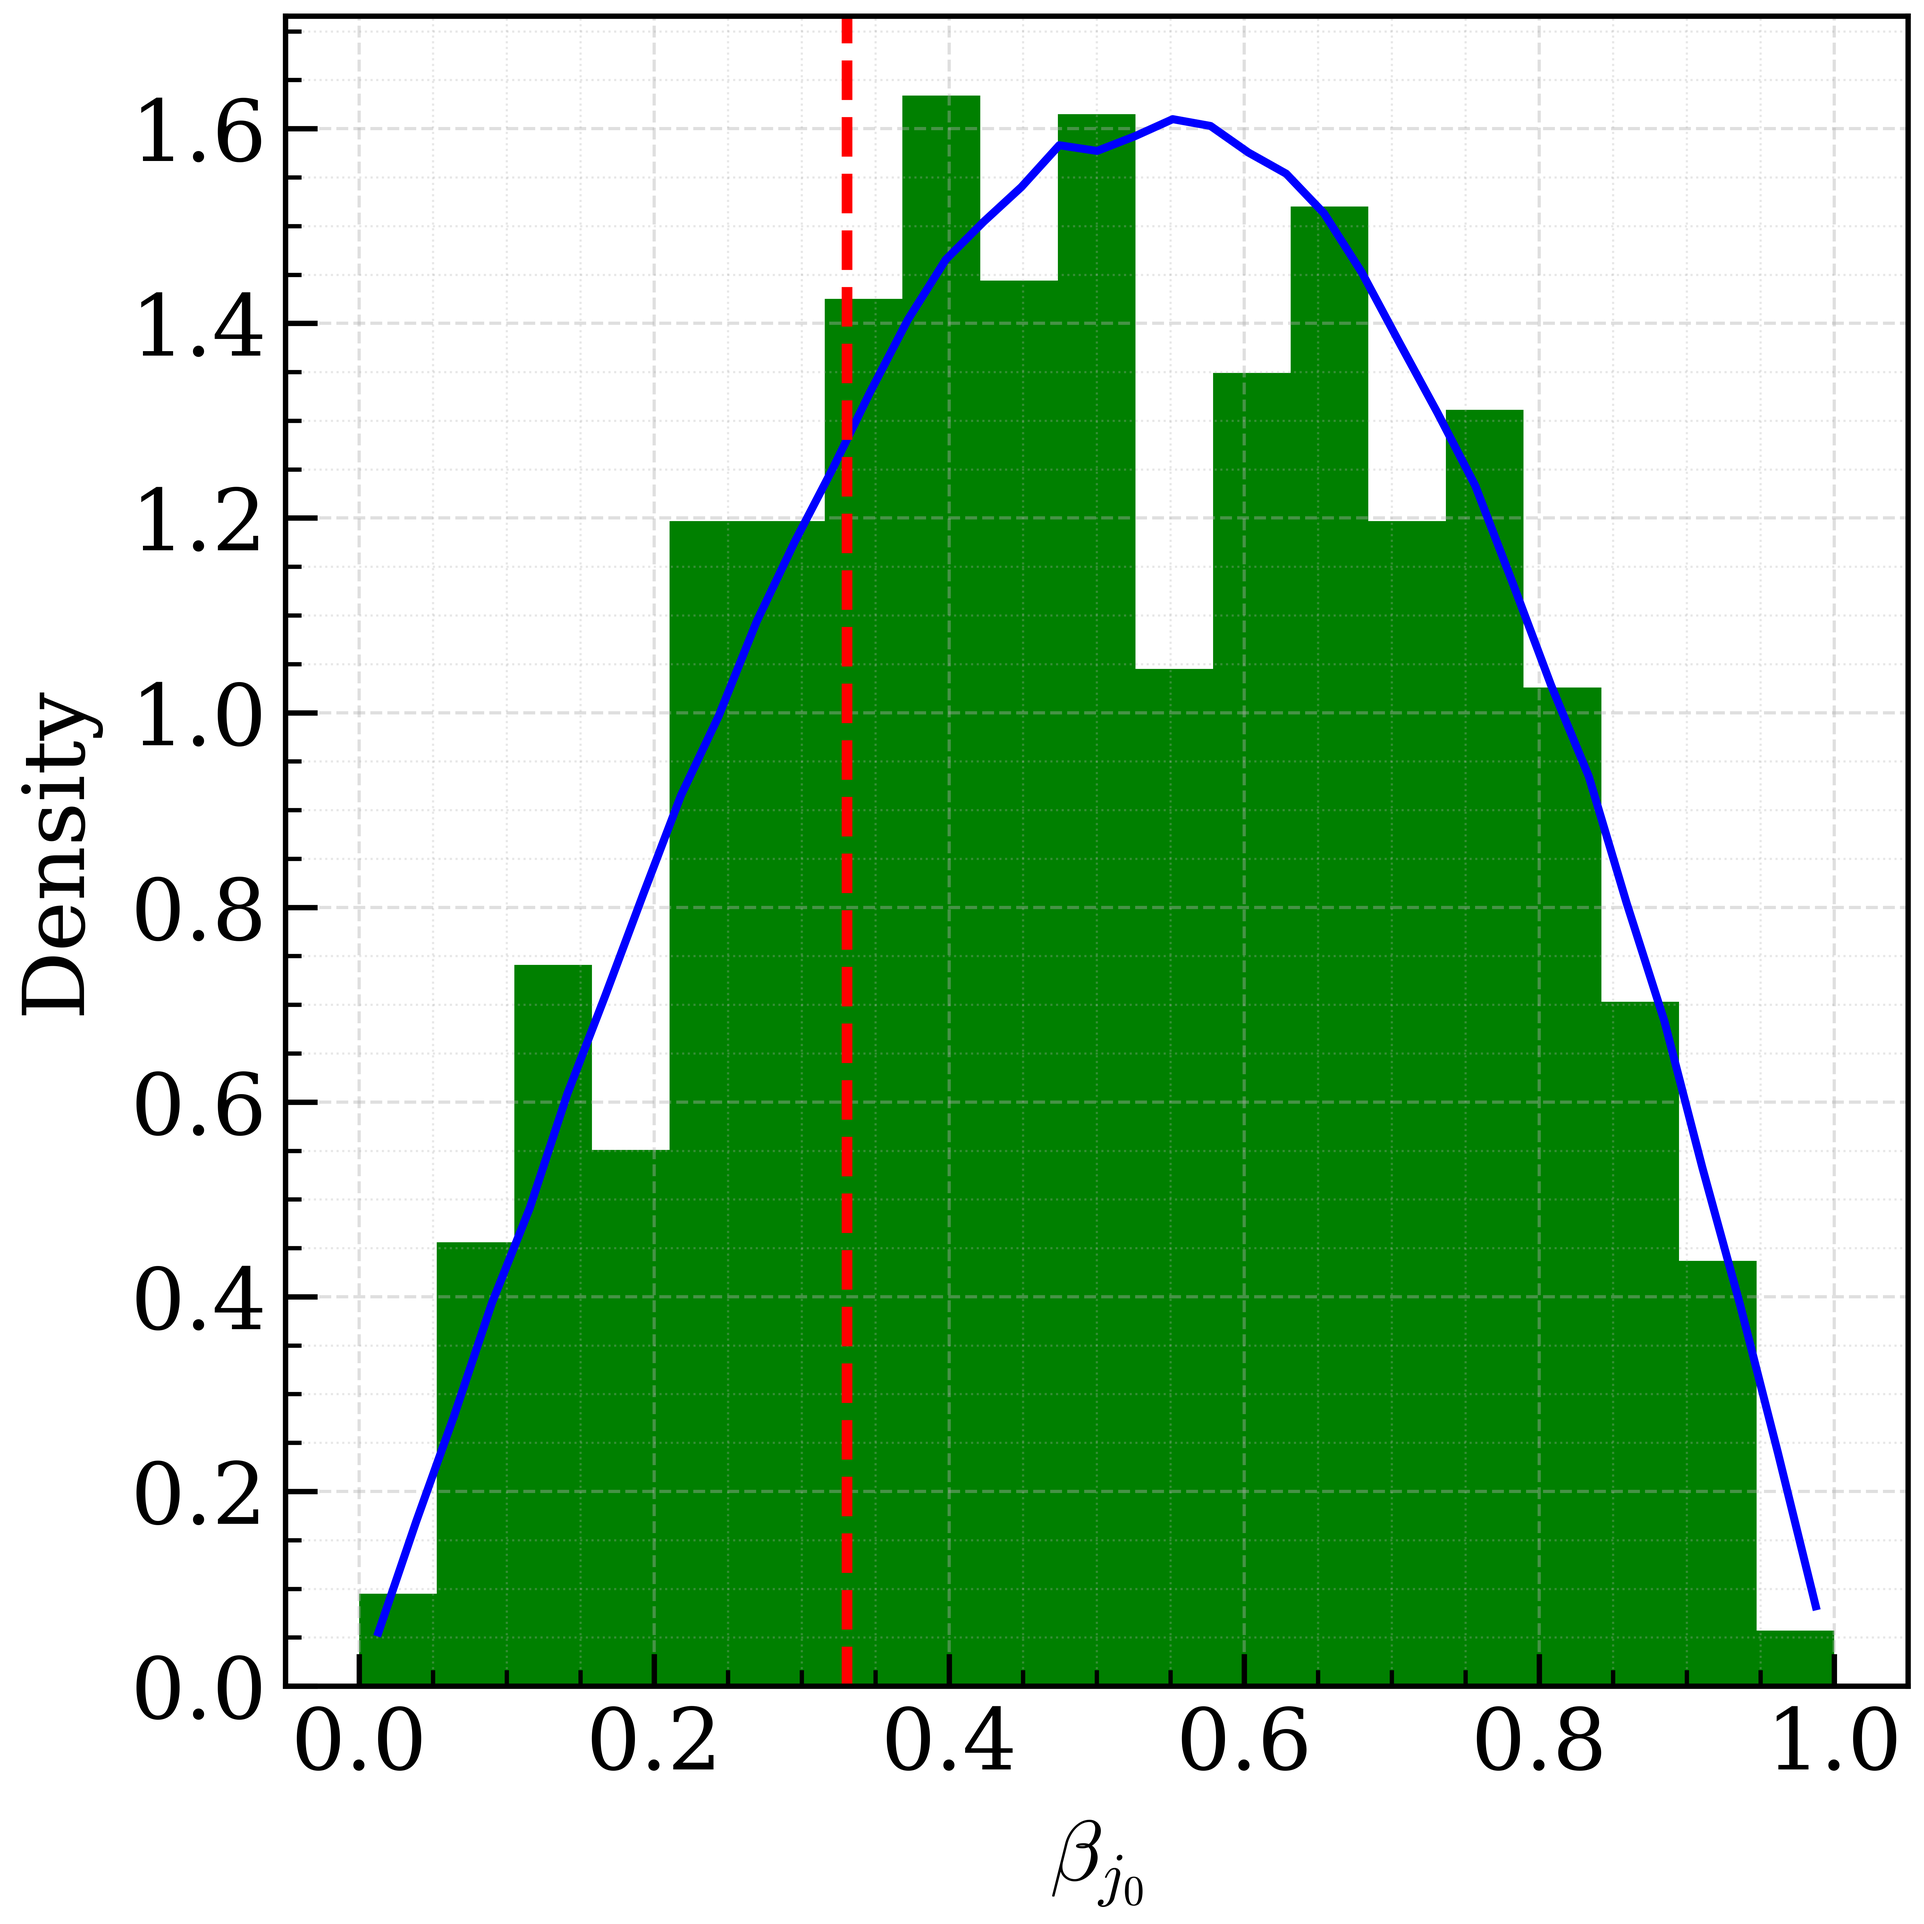
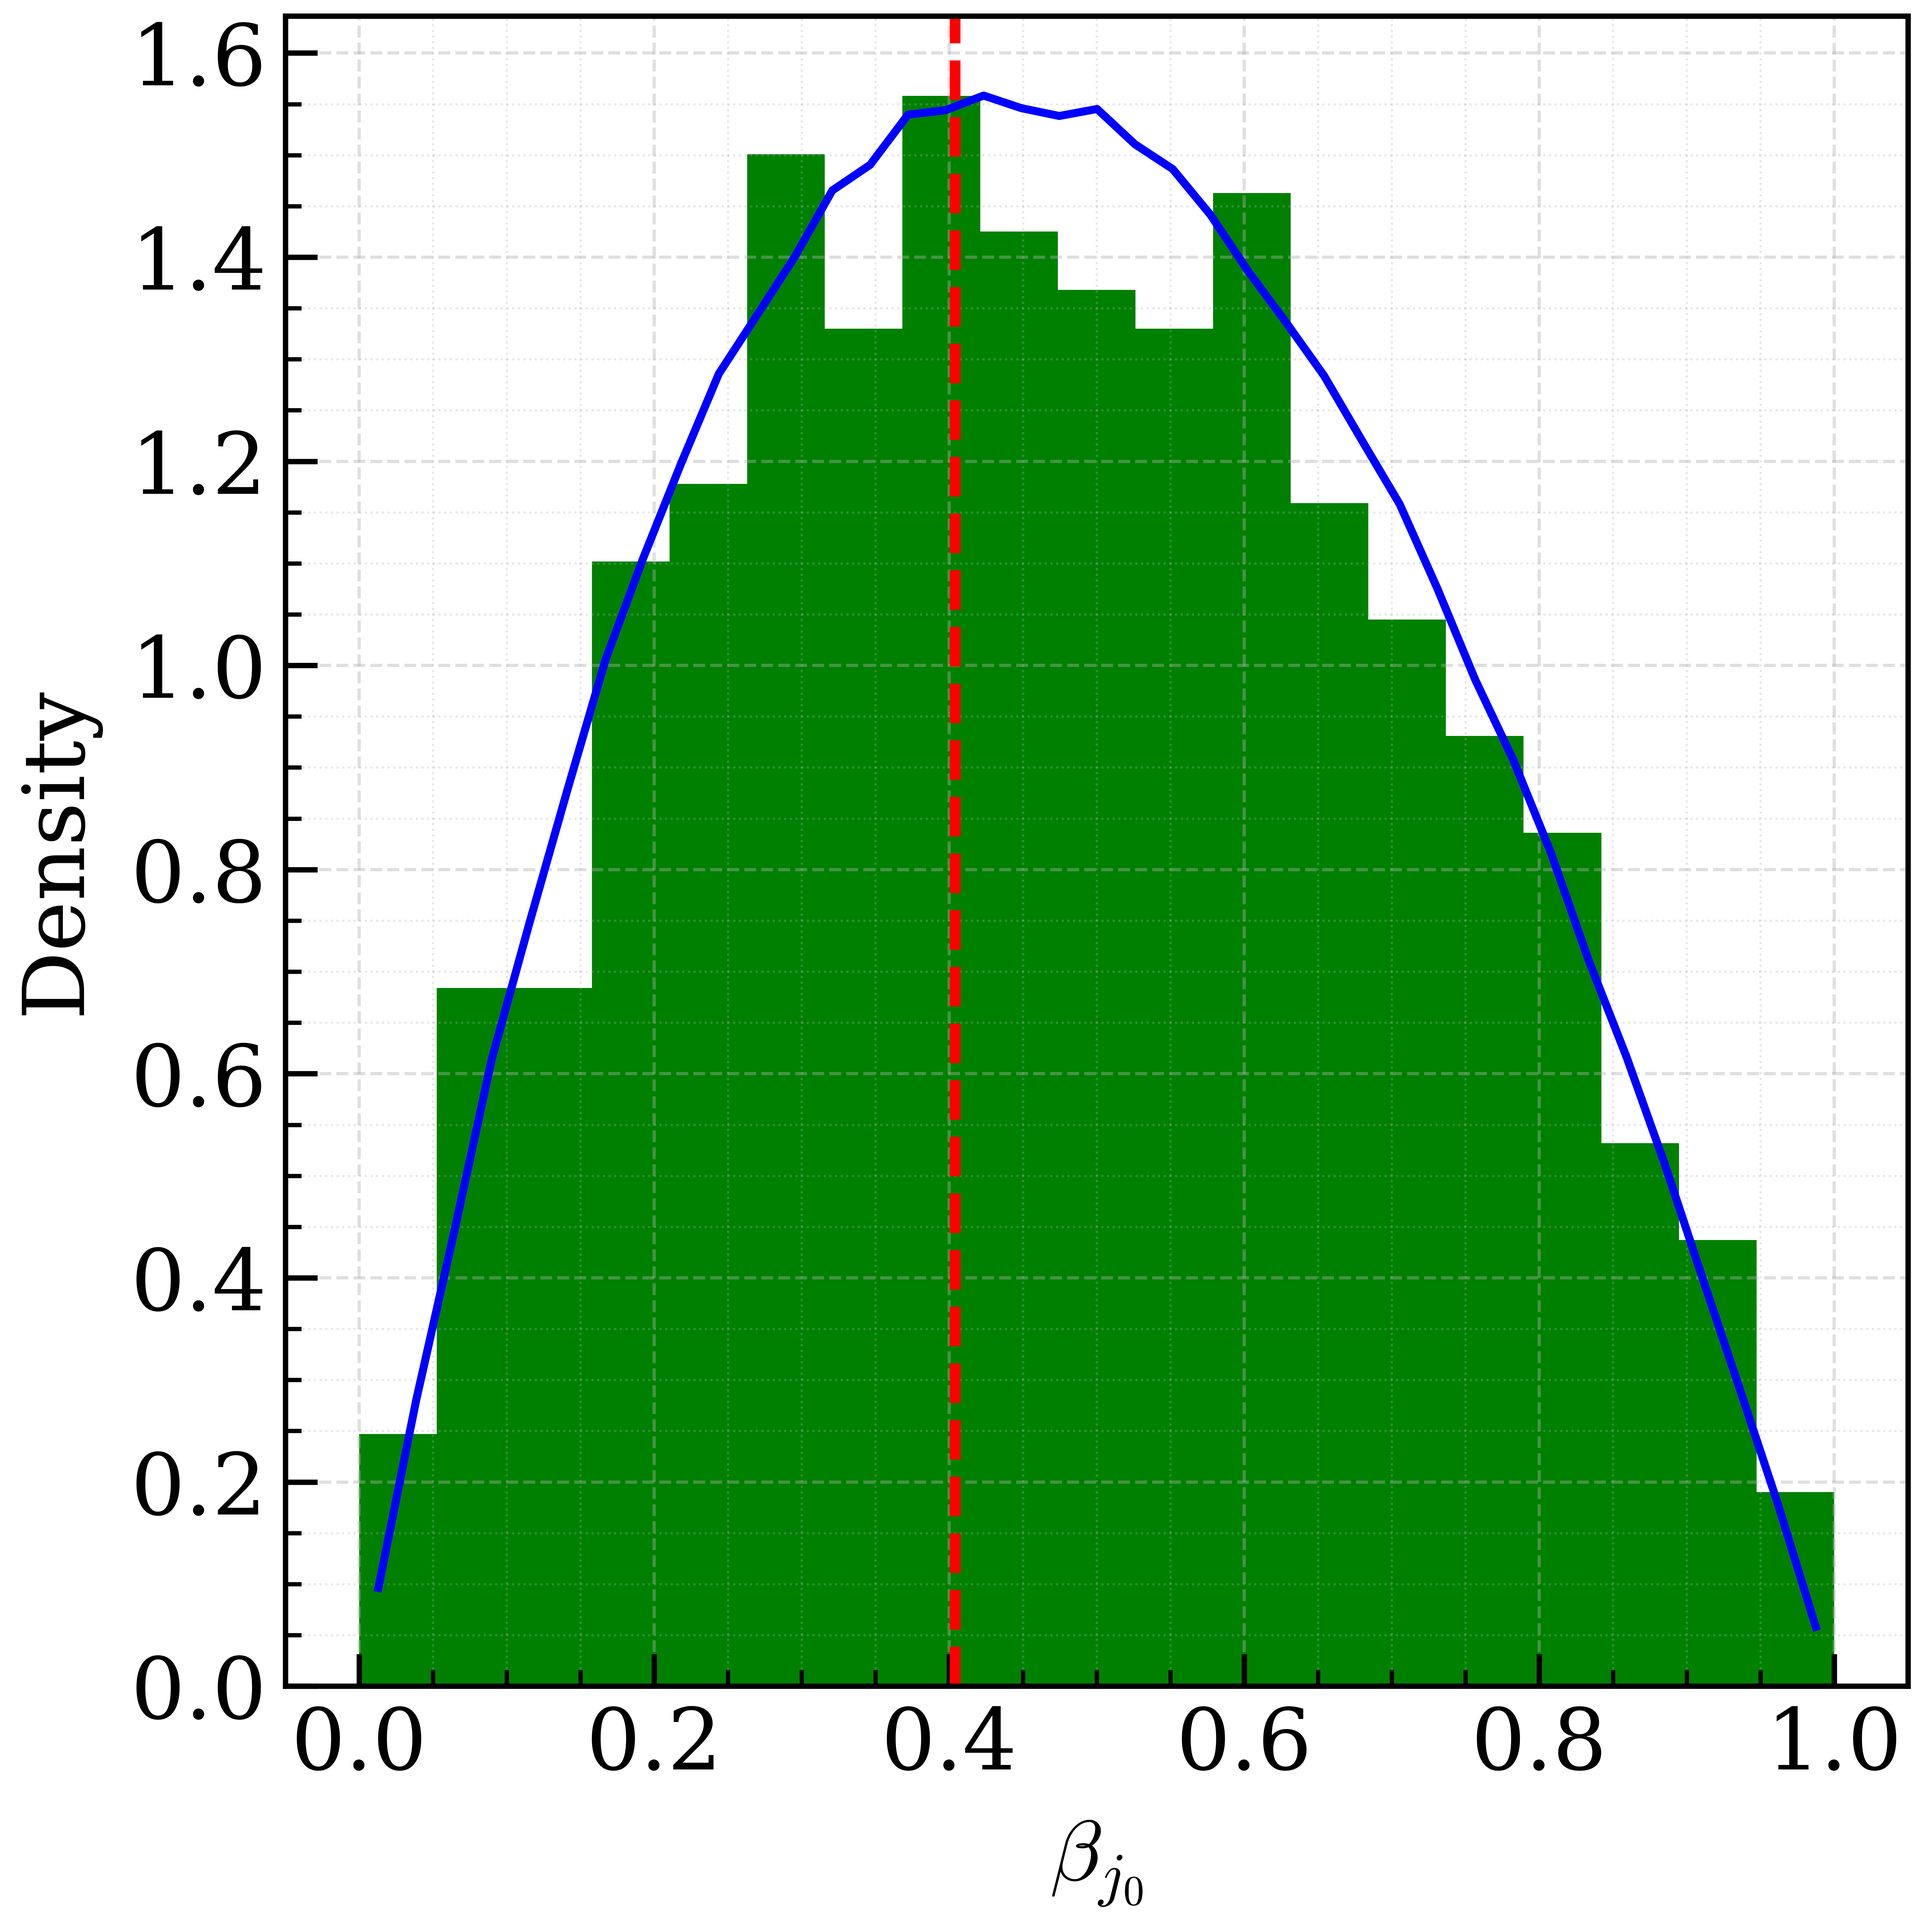
Updated graphs

diff --git a/bayesian_glm/model.py b/bayesian_glm/model.py
@@ -1,6 +1,5 @@
 import numpy as np
 import pymc as pm
-from pymc.sampling.jax import sample_numpyro_nuts as jaxsample
 import sys
 import os
 
@@ -12,7 +11,7 @@ from bayesian_glm.noise import NoiseComputer
 
 class ModelGLM(AuxiliaryFunctions):
     def __init__(self, p=1000, n=1000, cores = 4, chains = 4, draws=1000, tune=2000, log_likelihood="Logistic", 
-                 signal="Normal", prior="Normal", gamma=1.0, sigma=1.0, cuda = False, seed=None):
+                 signal="Normal", prior="Normal", gamma=1.0, sigma=1.0, seed=None):
         self.p, self.n, self.cores, self.chains, self.draws = p, n, cores, chains, draws
         self.tune, self.log_likelihood, self.signal = tune, log_likelihood, signal
         self.prior, self.gamma, self.sigma = prior, gamma, sigma
@@ -28,7 +27,6 @@ class ModelGLM(AuxiliaryFunctions):
         self.data = np.random.normal(loc=0.0,scale=1/np.sqrt(n),size=[n, p])
         self.posterior_mean = None
         self.log_likelihood = log_likelihood
-        self.cuda = cuda
 
         if signal == "Rademacher":
             self.true_beta = gamma * np.sign(2*np.random.random(p)-1)
@@ -81,10 +79,7 @@ class ModelGLM(AuxiliaryFunctions):
         with self.model:
             # I use MCMC to sample from the posterior distribution.
             # The default method in PyMC is a variant of Hamilotinian Monte Carlo called NUTS
-            if self.cuda:
-                self.sample = jaxsample(tune=self.tune, draws=self.draws, chains = self.chains)
-            else:
-                self.sample = pm.sample(cores=self.cores, tune=self.tune, draws=self.draws, chains = self.chains) # Tune parameter fixes the steps before starting sampling
+            self.sample = pm.sample(cores=self.cores, tune=self.tune, draws=self.draws, chains = self.chains) # Tune parameter fixes the steps before starting sampling
 
         # I extract from the InferenceData object an array containing the samples from the posterior
         self.posterior = np.array(self.sample["posterior"]["beta"][0])

diff --git a/simulation-scripts/marginal_comparison_graph.py b/simulation-scripts/marginal_comparison_graph.py
@@ -7,15 +7,25 @@ from mean_field_glm.graphs import MarginalGraphCreator
 
 # Values of parameters fixed by results of simulations from "compute_order_parameters_vs_kappa_beta.py"
 
+parameters_simulations = [0.151888443457735,0.188428694761769,0.389989312324746]
+
 def main():
 
     # Parameters correspond to (r1,r2,r3) for Beta(2,5) signal, Beta(2,2) prior, gamma = 10.0, and kappa = 1.0
-    marginal_graph_creator = MarginalGraphCreator(n=10000,p=10000,snr=10.0,prior="Beta",signal="Beta",
-                                                  parameters=[0.151888443457735,0.188428694761769,0.389989312324746])
+    marginal_graph_creator = MarginalGraphCreator(
+        n=1000,
+        p=1000,
+        gamma=1.0, # Now Model Beta code does not implement custom gamma. Fix always to 1.0.
+        prior="Beta",
+        signal="Beta",
+        parameters=parameters_simulations
+    )
 
     marginal_graph_creator.histogram_marginal()
 
     marginal_graph_creator.qq_plot_marginal()
+
+
 
 if __name__ == "__main__":
     main()
